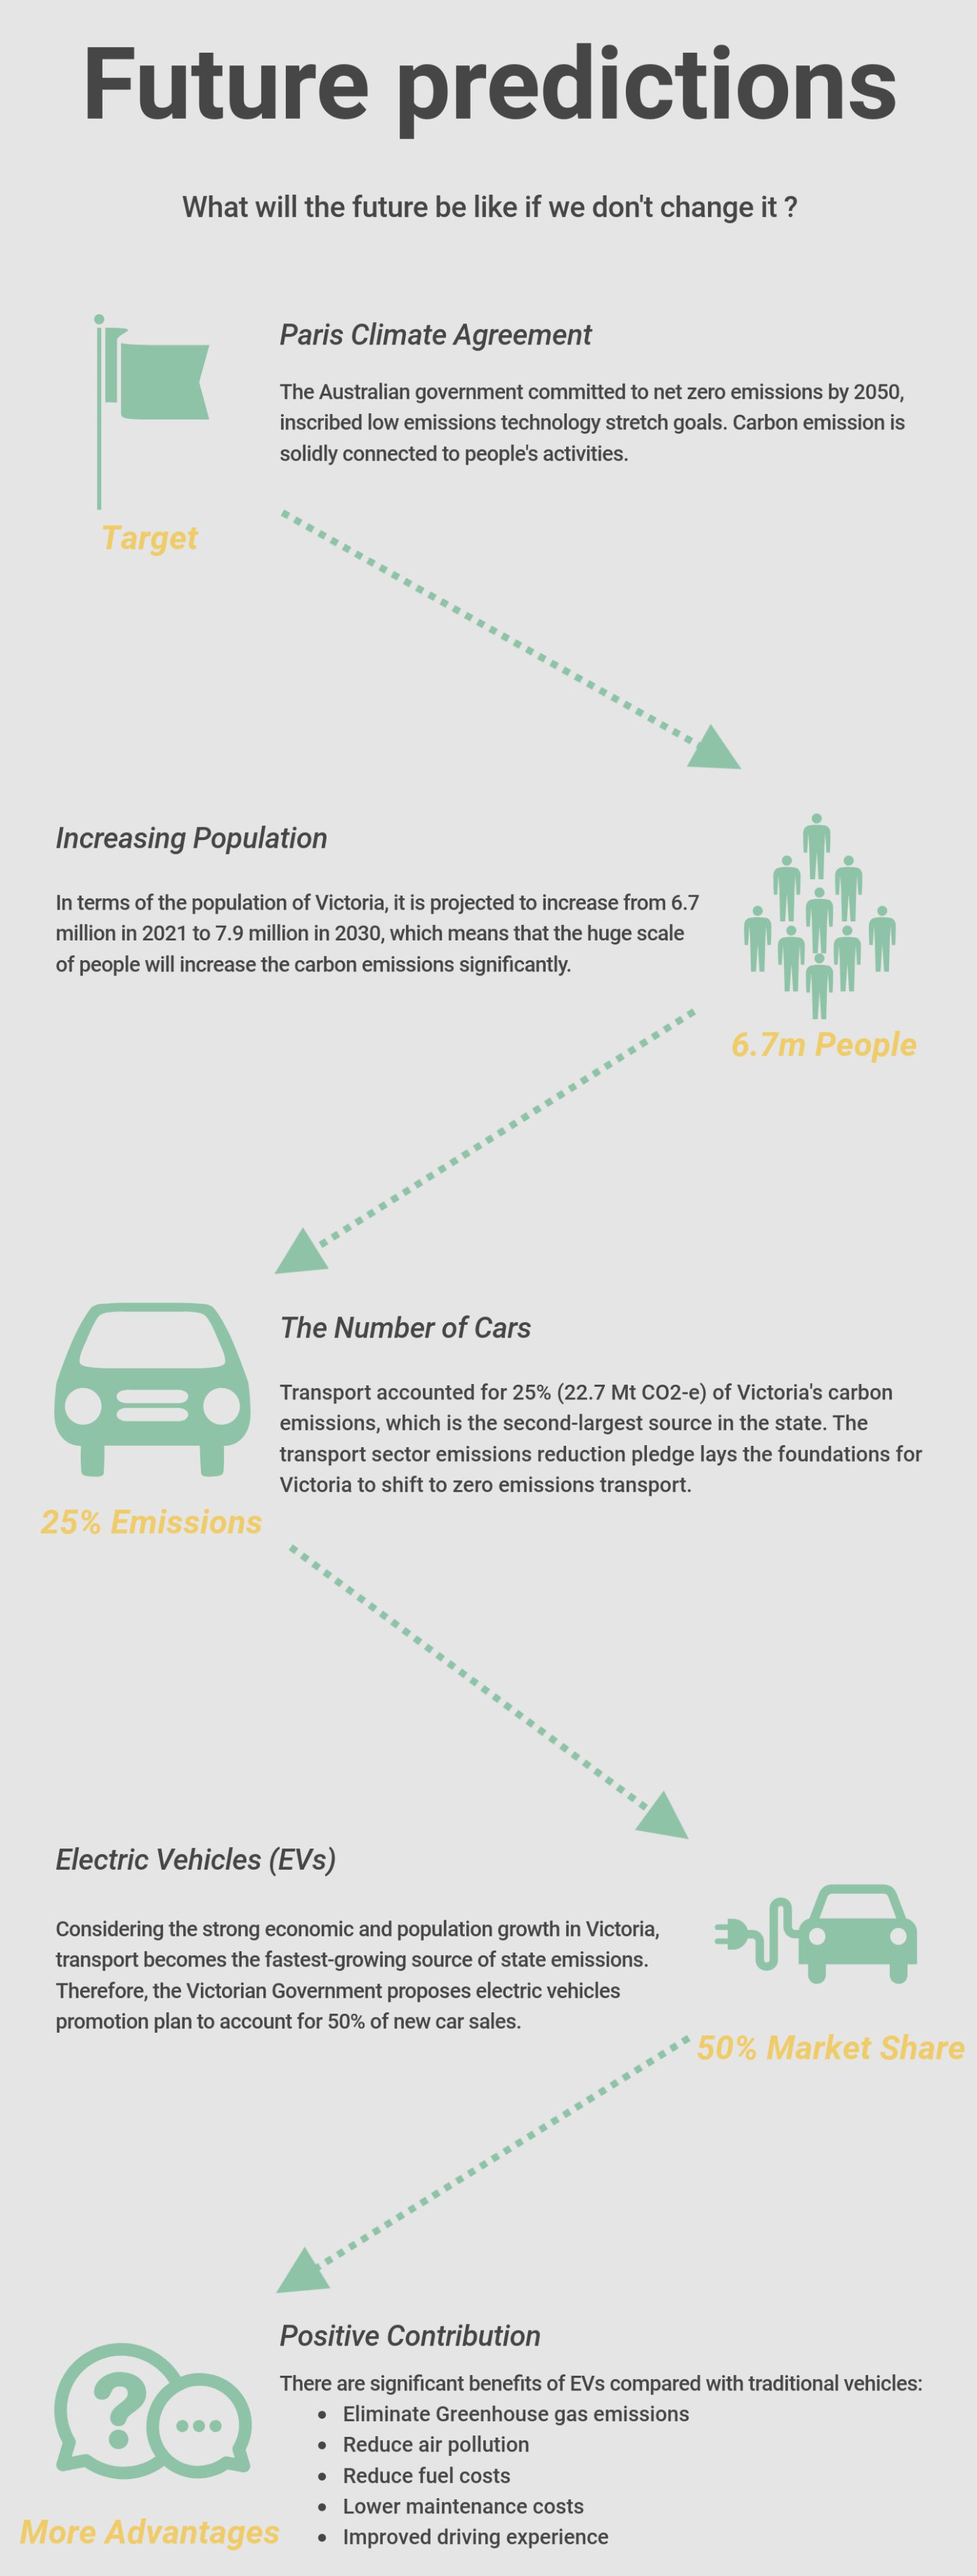
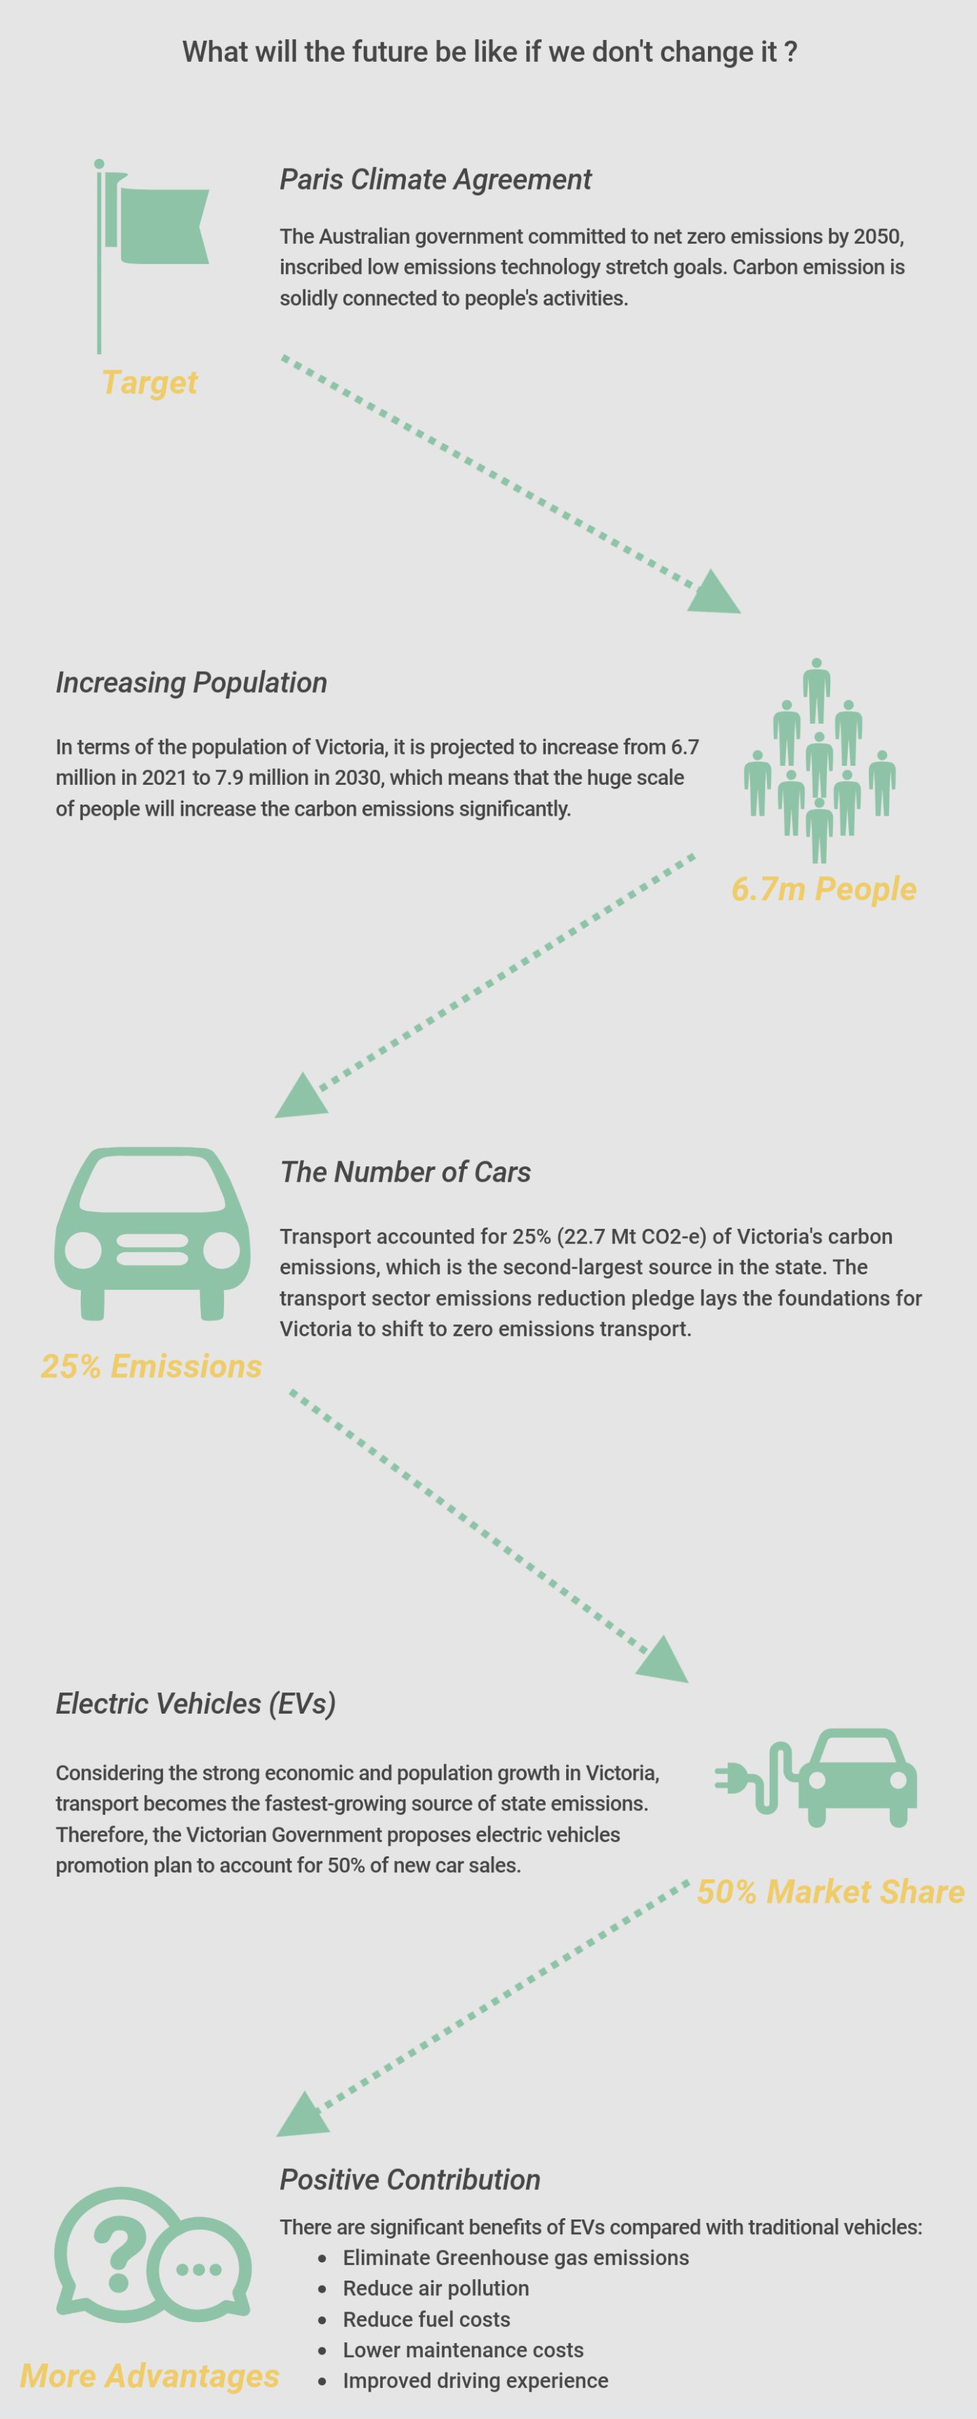
Minor changes

diff --git a/src/screens/predictiongraph/components/EmissionPreStackedBarVis.js b/src/screens/predictiongraph/components/EmissionPreStackedBarVis.js
@@ -1,51 +1,6 @@
 import React, { PureComponent } from 'react';
 import { BarChart, Bar, Cell, XAxis, YAxis, CartesianGrid, Tooltip, Legend, ResponsiveContainer } from 'recharts';
 
-const data = [
-  {
-    name: 'Page A',
-    uv: 4000,
-    pv: 2400,
-    amt: 2400,
-  },
-  {
-    name: 'Page B',
-    uv: 3000,
-    pv: 1398,
-    amt: 2210,
-  },
-  {
-    name: 'Page C',
-    uv: 2000,
-    pv: 9800,
-    amt: 2290,
-  },
-  {
-    name: 'Page D',
-    uv: 2780,
-    pv: 3908,
-    amt: 2000,
-  },
-  {
-    name: 'Page E',
-    uv: 1890,
-    pv: 4800,
-    amt: 2181,
-  },
-  {
-    name: 'Page F',
-    uv: 2390,
-    pv: 3800,
-    amt: 2500,
-  },
-  {
-    name: 'Page G',
-    uv: 3490,
-    pv: 4300,
-    amt: 2100,
-  },
-];
-
 export default class Example extends PureComponent {
   static demoUrl = 'https://codesandbox.io/s/stacked-bar-chart-s47i2';
 
@@ -68,8 +23,8 @@ export default class Example extends PureComponent {
           <YAxis domain={[15000, 34000]} label={{ value: 'CO2 (million)', angle: -90, position: 'insideLeft', offset:-10}}/>
           <Tooltip />
           <Legend />
-          <Bar dataKey="emissionFifty" stackId="a" fill="#8884d8" />
-          <Bar dataKey="difference" stackId="a" fill="#82ca9d" />
+          <Bar name='emission_fifty' dataKey="emissionFifty" stackId="a" fill="#4771b2" />
+          <Bar dataKey="difference" stackId="a" fill="#a5d5d8" />
         </BarChart>
     );
   }

diff --git a/src/screens/predictiongraph/components/VehiclePreVis.js b/src/screens/predictiongraph/components/VehiclePreVis.js
@@ -1,50 +1,6 @@
 import React, { PureComponent } from 'react';
 import { BarChart, Bar, Cell, XAxis, YAxis, CartesianGrid, Tooltip, Legend, ResponsiveContainer } from 'recharts';
 
-const data = [
-  {
-    name: 'Page A',
-    uv: 4000,
-    pv: 2400,
-    amt: 2400,
-  },
-  {
-    name: 'Page B',
-    uv: 3000,
-    pv: 1398,
-    amt: 2210,
-  },
-  {
-    name: 'Page C',
-    uv: 2000,
-    pv: 9800,
-    amt: 2290,
-  },
-  {
-    name: 'Page D',
-    uv: 2780,
-    pv: 3908,
-    amt: 2000,
-  },
-  {
-    name: 'Page E',
-    uv: 1890,
-    pv: 4800,
-    amt: 2181,
-  },
-  {
-    name: 'Page F',
-    uv: 2390,
-    pv: 3800,
-    amt: 2500,
-  },
-  {
-    name: 'Page G',
-    uv: 3490,
-    pv: 4300,
-    amt: 2100,
-  },
-];
 
 export default class Example extends PureComponent {
   static demoUrl = 'https://codesandbox.io/s/simple-bar-chart-tpz8r';
@@ -69,7 +25,7 @@ export default class Example extends PureComponent {
           <Tooltip />
           <Legend />
           {/* <Bar dataKey="population" fill="#8884d8" /> */}
-          <Bar dataKey="count" fill="#82ca9d" />
+          <Bar dataKey="count" fill="#8884d8" />
         </BarChart>
     //   </ResponsiveContainer>
     );

diff --git a/src/screens/storyboard/index.js b/src/screens/storyboard/index.js
@@ -68,7 +68,7 @@ export default function Index() {
               </p>
               <div className="diseases">
                   <div className="description">
-                      <img src={healthHeart}/>
+                      <img src={healthHeart} style={{width:"200px"}}/>
                       <p>Cardiovascular disease</p>
                   </div>
                   <div className="description">
@@ -85,7 +85,7 @@ export default function Index() {
       <section className="future" data-color="#71AB5C">
           <div className="question">
               <h2>
-                  What's the environment like in the future?
+                  {/* What's the environment like in the future? */}
               </h2>
           </div>
           <div className="section-1">

diff --git a/src/screens/predictiongraph/index.js b/src/screens/predictiongraph/index.js
@@ -73,7 +73,7 @@ export default function Index() {
         <div className='pre-vis-container'>
 
             <div className='pre-vis__title'>Here are some projections of future population, <br/>vehicles and carbon emissions</div>
-            <select name="Council" id="council" onChange={updateVisOption} value={visOption}>
+            <select name="Council" id="council" onChange={updateVisOption} value={visOption} style={{marginTop:"20px", marginBottom:"20px"}}>
                 {/* <option value="" disabled>Emission</option> */}
                 <option value="1">Population</option>
                 <option value="2">Vehicle</option>

diff --git a/src/screens/currentenv/components/QuarterlyEmissionCanvas.js b/src/screens/currentenv/components/QuarterlyEmissionCanvas.js
@@ -64,7 +64,7 @@ export default function QuarterlyEmissionCanvas() {
     <div>
         <div className='emission'>
             <div className='vis-emission'>
-              <select name="Council" id="council" onChange={updateVisOption} value={visOption}>
+              <select name="Council" id="council" onChange={updateVisOption} value={visOption} style={{marginTop:"20px"}}>
                 <option value="" disabled>Emission</option>
                 <option value="1">Annual</option>
                 <option value="2">Emission by Gas</option>

diff --git a/src/App.js b/src/App.js
@@ -46,9 +46,6 @@ function App() {
           <Route path="/pp" element={<EmissionPrediction/>}/>
           <Route path="/prediction" element={<PredictionGraph/>}/>
           <Route path="/storyboard" element={<Storyboard/>}/>
-
-
-          
           {/* <Route path="/test" element={<Test scrollHeight={4000} width={1158} height={770} numFrames={63}/>}/> */}
           
           <Route path="/" element={<Navigate replace to="/home"/>} />
